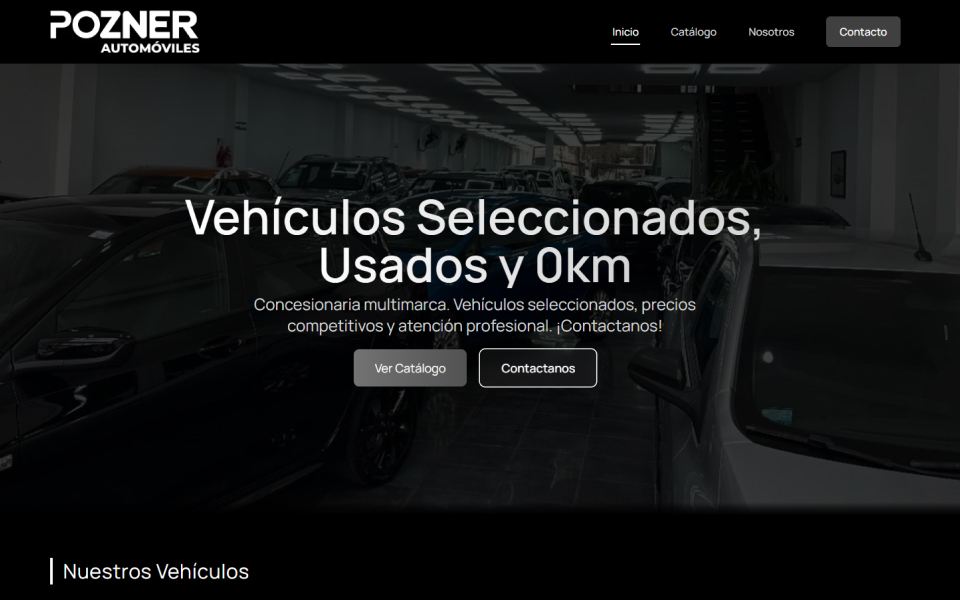
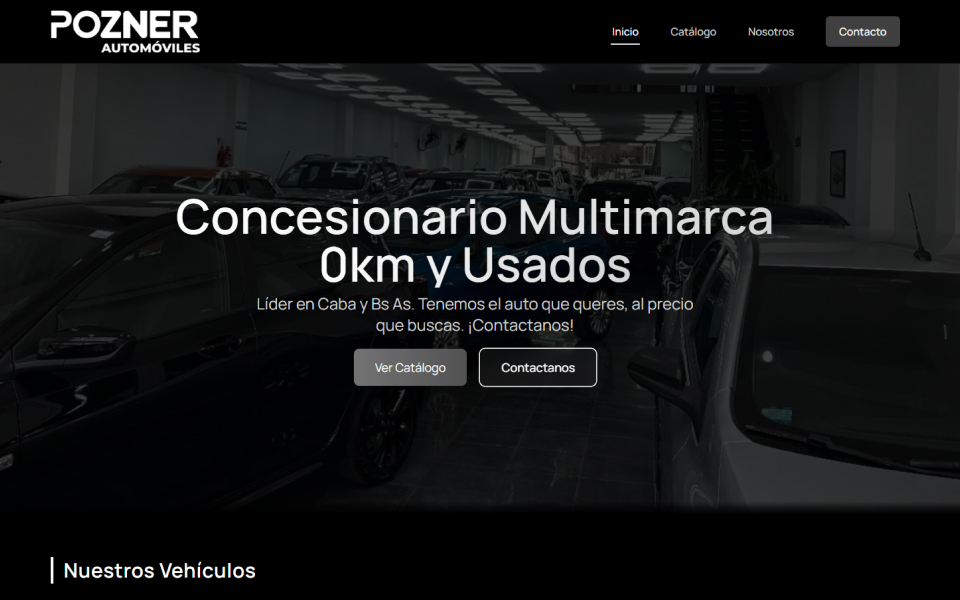
hero home perso

diff --git a/src/components/HeroHome.tsx b/src/components/HeroHome.tsx
@@ -30,7 +30,7 @@ const HeroHome = () => {
                   transition={{ duration: 0.5 }}
                   className='text-[28px] sm:text-4xl md:text-4xl lg:text-5xl xl:text-7xl font-semibold bg-gradient-to-r from-white to-neutral-300 bg-clip-text text-transparent'
                 >
-                  Vehículos Seleccionados,
+                  Concesionario Multimarca
                 </motion.h2>
               </div>
               <div className='md:gap-3 text-nowrap lg:mb-1'>
@@ -40,7 +40,7 @@ const HeroHome = () => {
                   transition={{ duration: 0.5, delay: 0.1 }}
                   className='text-[28px] sm:text-4xl md:text-4xl lg:text-5xl xl:text-7xl font-semibold bg-gradient-to-r from-white to-neutral-300 bg-clip-text text-transparent'
                 >
-                  Usados y 0km
+                  0km y Usados
                 </motion.h2>
               </div>
             </div>
@@ -50,8 +50,8 @@ const HeroHome = () => {
               transition={{ duration: 0.5, delay: 0.2 }}
               className='text-lg lg:text-xl xl:text-2xl text-center text-color-text-light mx-4 max-w-md sm:max-w-md lg:max-w-lg xl:max-w-2xl'
             >
-              Concesionaria multimarca. Vehículos seleccionados, precios
-              competitivos y atención profesional. ¡Contactanos!
+              Líder en Caba y Bs As. Tenemos el auto que queres, al precio que
+              buscas. ¡Contactanos!
             </motion.p>
             <motion.div
               initial={{ opacity: 0, y: 30 }}
